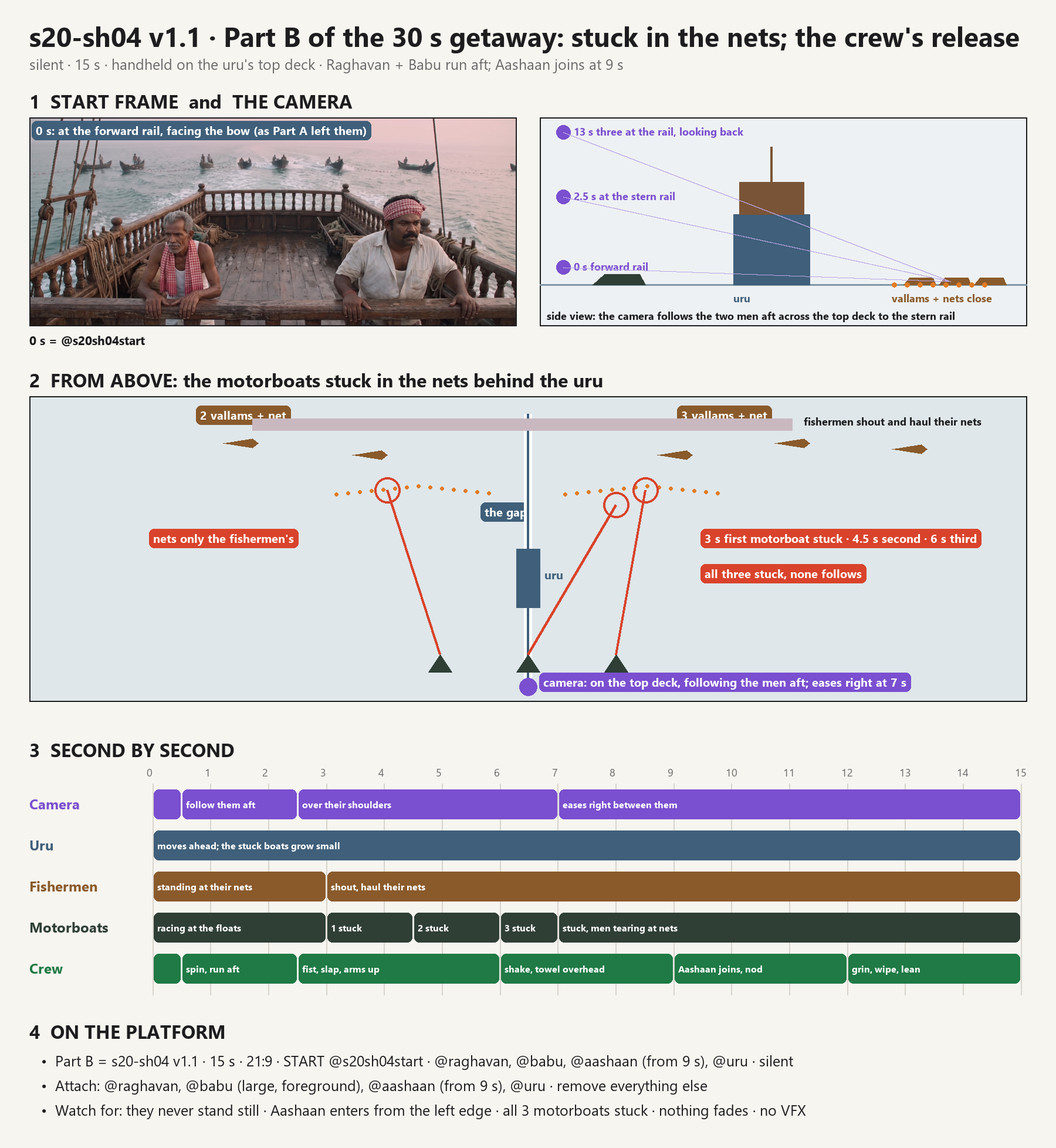
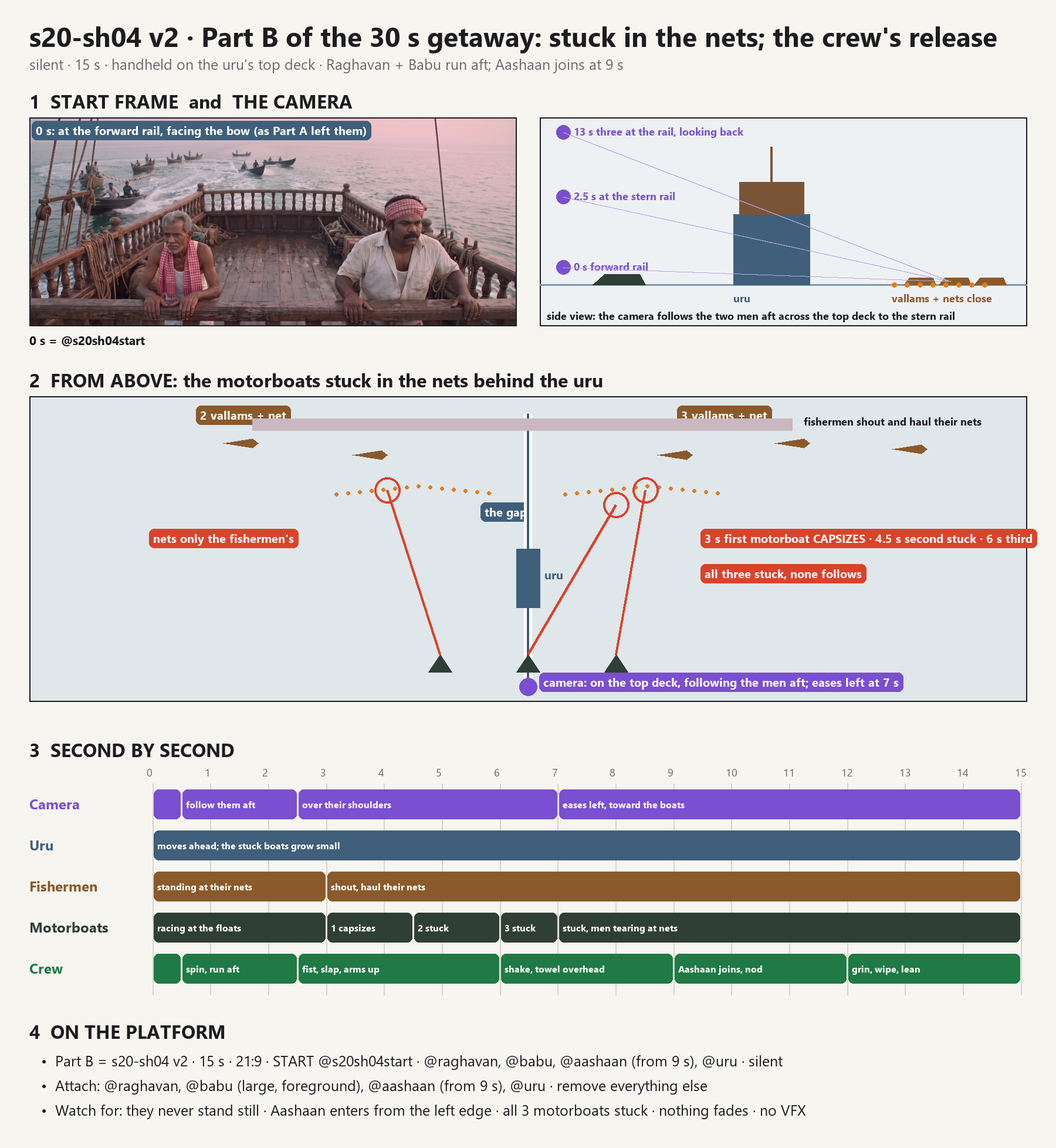
Ranjith: shot: s20-sh04 v2 (vallams and motorboats on the left as Part A; nearest motorboat capsizes, a man goes under; Aashaan's eyes on the boats)

diff --git a/tools/shotsheets/s20-sh04.py b/tools/shotsheets/s20-sh04.py
@@ -10,7 +10,7 @@ def tag(xy, text, col, f=None):
     f = f or F(20, True); x, y = xy; tw = d.textlength(text, font=f)
     d.rounded_rectangle([x - 6, y - 4, x + tw + 8, y + 28], 8, fill=col); d.text((x + 1, y - 2), text, font=f, fill="white")
 
-d.text((50, 30), "s20-sh04 v1.1 · Part B of the 30 s getaway: stuck in the nets; the crew's release", font=F(46, True), fill=INK)
+d.text((50, 30), "s20-sh04 v2 · Part B of the 30 s getaway: stuck in the nets; the crew's release", font=F(46, True), fill=INK)
 d.text((50, 92), "silent · 15 s · handheld on the uru's top deck · Raghavan + Babu run aft; Aashaan joins at 9 s", font=F(25), fill=GREY)
 
 # 1 start frame + side view of the rise-over reveal
@@ -55,23 +55,23 @@ d.line([(cx, my + mh - 30), (cx, my + 30)], fill="#ffffff", width=14); d.line([(
 d.rectangle([cx - 20, my + 260, cx + 20, my + 360], fill=URU); d.text((cx + 28, my + 290), "uru", font=F(20, True), fill=URU)
 # three motorboats abreast and where they end
 for bx, ex, ey, lab, t_ in [(cx - 150, cx - 240, my + 160, "nets only the fishermen's", (cx - 640, my + 230)),
-                            (cx + 150, cx + 200, my + 160, "3 s first motorboat stuck · 4.5 s second · 6 s third", (cx + 300, my + 230)),
+                            (cx + 150, cx + 200, my + 160, "3 s first motorboat CAPSIZES · 4.5 s second stuck · 6 s third", (cx + 300, my + 230)),
                             (cx, cx + 150, my + 185, "all three stuck, none follows", (cx + 300, my + 290))]:
     d.polygon([(bx - 20, my + 470), (bx, my + 440), (bx + 20, my + 470)], fill=MOT)
     d.line([(bx, my + 440), (ex, ey)], fill=JOIN, width=4); d.ellipse([ex - 22, ey - 22, ex + 22, ey + 22], outline=JOIN, width=4)
     tag(t_, lab, JOIN)
 d.rectangle([mx + 380, my + 38, mx + 1300, my + 58], fill=HAZE)
 d.text((mx + 1320, my + 30), "fishermen shout and haul their nets", font=F(18, True), fill=INK)
-d.ellipse([cx - 15, my + mh - 40, cx + 15, my + mh - 10], fill=CAM); tag((cx + 25, my + mh - 45), "camera: on the top deck, following the men aft; eases right at 7 s", CAM)
+d.ellipse([cx - 15, my + mh - 40, cx + 15, my + mh - 10], fill=CAM); tag((cx + 25, my + mh - 45), "camera: on the top deck, following the men aft; eases left at 7 s", CAM)
 
 # 3 timeline
 y2 = my + mh + 60
 d.text((50, y2), "3  SECOND BY SECOND", font=F(32, True), fill=INK)
 tx, tw_ = 260, 1480; ty = y2 + 80; S = 15
-rows = [("Camera", CAM, [(0, 0.5, ""), (0.5, 2.5, "follow them aft"), (2.5, 7, "over their shoulders"), (7, 15, "eases right between them")]),
+rows = [("Camera", CAM, [(0, 0.5, ""), (0.5, 2.5, "follow them aft"), (2.5, 7, "over their shoulders"), (7, 15, "eases left, toward the boats")]),
         ("Uru", URU, [(0, 15, "moves ahead; the stuck boats grow small")]),
         ("Fishermen", VAL, [(0, 3, "standing at their nets"), (3, 15, "shout, haul their nets")]),
-        ("Motorboats", MOT, [(0, 3, "racing at the floats"), (3, 4.5, "1 stuck"), (4.5, 6, "2 stuck"), (6, 7, "3 stuck"), (7, 15, "stuck, men tearing at nets")]),
+        ("Motorboats", MOT, [(0, 3, "racing at the floats"), (3, 4.5, "1 capsizes"), (4.5, 6, "2 stuck"), (6, 7, "3 stuck"), (7, 15, "stuck, men tearing at nets")]),
         ("Crew", "#1f7a45", [(0, 0.5, ""), (0.5, 2.5, "spin, run aft"), (2.5, 6, "fist, slap, arms up"), (6, 9, "shake, towel overhead"), (9, 12, "Aashaan joins, nod"), (12, 15, "grin, wipe, lean")])]
 xj = -1000
 for sec in range(0, 16):
@@ -87,7 +87,7 @@ for i, (lab, col, segs) in enumerate(rows):
 # 4 platform
 y3 = ty + 70 * len(rows) + 50
 d.text((50, y3), "4  ON THE PLATFORM", font=F(32, True), fill=INK)
-lines = ["Part B = s20-sh04 v1.1 · 15 s · 21:9 · START @s20sh04start · @raghavan, @babu, @aashaan (from 9 s), @uru · silent",
+lines = ["Part B = s20-sh04 v2 · 15 s · 21:9 · START @s20sh04start · @raghavan, @babu, @aashaan (from 9 s), @uru · silent",
          "Attach: @raghavan, @babu (large, foreground), @aashaan (from 9 s), @uru · remove everything else",
          "Watch for: they never stand still · Aashaan enters from the left edge · all 3 motorboats stuck · nothing fades · no VFX"]
 for i, t in enumerate(lines): d.text((70, y3 + 55 + i * 42), "•  " + t, font=F(25), fill=INK)

diff --git a/scenes/showreel/s20-sh04.md b/scenes/showreel/s20-sh04.md
@@ -1,12 +1,13 @@
-# s20-sh04 · SB026 (Ref 20) — the getaway, PART B of the 30 s run: the motorboats stuck in the nets, the crew's release (silent) · 15 s · v1.1
+# s20-sh04 · SB026 (Ref 20) — the getaway, PART B of the 30 s run: the motorboats stuck in the nets, the crew's release (silent) · 15 s · v2
 Status: **ready (Ranjith, 2026-11-23)** · silent · start image `@s20sh04start` (on the uru's top deck: Raghavan and Babu at the forward rail facing the camera, the motorboats at the nets behind)
 Created by: Ranjith
+v2 (Ranjith, 2026-11-23): new start frame `@s20sh04start` that keeps Part A's geometry (L178): the wake curves from the turn and the line of vallams angles away to the left (Ranjith: "the vallams and all should be left of uru"), the motorboats racing in among them close behind; the nearest motorboat capsizes in the net and a man goes under trying to get free, coming up clinging to the floats (Ranjith: "the motor boats should flip ... the guy should go down while trying to escape from the nets"); Aashaan's eyes locked on the motorboats. v1.1 kept in `retired/s20-sh04-v1.md`.
 v1.1 (Ranjith, 2026-11-23: "can we have ashan also there as he came out of wheelhouse to front"): Aashaan, who went to the bow in s17-sh03, climbs up onto the top deck at 9 s from the bow end, entering from the left edge, joins the two at the stern rail and nods; @aashaan attached.
 Why: Part A (s20-sh03 v3) ended with the uru clear of the nets and the motorboats still racing past; Raghavan and Babu stood like statues (L177). Ranjith: "can the camera angle come from opposite" and "if u look at previous one raghavan and babu are facing bow ryt" → "ok": Part B starts on the top deck with the two at the forward rail facing the bow, as Part A left them; they spin and run aft to the stern rail as the motorboats stick in the nets one by one, then burst out in relief.
 Camera: handheld on the top deck, 28mm, following the two men aft, then easing right between them; the stuck motorboats in the middle of the frame beyond the rail, growing small as the uru goes on.
 Motive (Ranjith: "Protect their nets"): the fishermen guard their nets; they do not help the uru.
 Scene emotion: none (silent shot).
-Lessons applied: L177 (Raghavan and Babu: big timed actions in the key block, large in frame), L174, L173, L172, L168, L83, checklist 190–203 (195 no VFX; 201 nothing fades).
+Lessons applied: L178 (geometry across the cut; eyelines locked; action close), L177 (Raghavan and Babu: big timed actions in the key block, large in frame), L174, L173, L172, L168, L83, checklist 190–203 (195 no VFX; 201 nothing fades).
 Attach: `@s20sh04start` (start image), `@raghavan` (full), `@babu` (full), `@aashaan` (full, from 9 s), `@uru` (full). No end image. Remove every other attachment (L88). **15 s.** 21:9.
 Platform: upload `approved/sb026-clear/s20-sh04-start.png` as `@s20sh04start`.
 Attach folder: `scenes/showreel/attach/s20-sh04/`
@@ -16,26 +17,26 @@ Edit note (music): the score hits on the first snag at 3 s and resolves into the
 ## Prompt
 ```text
 SCENE CONTEXT
-Dawn, 1998, open sea in Sri Lankan waters, on the small open top deck of our uru. The uru has just cut hard round the end of the fishermen's nets. Raghavan and Babu are at the forward rail of the top deck, where they rode out the turn, facing the bow. They hear the motorboats behind, spin round and run aft across the top deck to the stern rail, and get there just as the three motorboats, too close and too fast to follow the turn, run into the fishermen's float lines and are stuck there one after another, while the fishermen stand and shout and haul at their nets to save them. Raghavan and Babu burst out in relief, and Aashaan, who went forward to the bow to watch ahead, climbs up onto the top deck and joins them. The uru moves ahead and the stuck motorboats grow small behind it. One continuous shot, 15 seconds, starting exactly on the start frame. No one speaks a line.
+Dawn, 1998, open sea in Sri Lankan waters, on the small open top deck of our uru. The uru has just cut hard round the end of the fishermen's line of nets: its wake curves away behind it from the turn, and the line of five vallams with their float lines angles away to the left, the nearest vallam just off the left of the uru's stern. Raghavan and Babu are at the forward rail of the top deck, where they rode out the turn, facing the bow. They hear the motorboats behind, spin round and run aft across the top deck to the stern rail, and get there just as the three motorboats, too close and too fast to follow the turn, run into the fishermen's float lines among the vallams and are wrecked and stuck there one after another, the nearest one tangling, swinging sideways and capsizing, a man thrown into the sea, while the fishermen stand and shout and haul at their nets to save them. Raghavan and Babu burst out in relief, and Aashaan, who went forward to the bow to watch ahead, climbs up onto the top deck and joins them. The uru moves ahead and the stuck motorboats grow small behind it. One continuous shot, 15 seconds, starting exactly on the start frame. No one speaks a line.
 
 MEMORY
 Place: the open sea at dawn, calm grey-pink with a low swell; the uru's wide white wake running back from the stern; thin haze on the far sea.
 The top deck: a small open deck of weathered planks about 5 m long, edged all round by a carved turned-post wooden balustrade; coiled ropes and a few sacks along its sides; the mast stays and rigging at the left.
 Raghavan and Babu: at the forward rail of the top deck in the foreground, facing the bow and the camera, from the waist up: Raghavan on the left, Babu on the right.
-Behind the uru, beyond the stern rail: five small wooden fishing vallams, plain open canoes with no frames or poles, fishermen standing in them, their nets lying on the water as lines of small dull white and orange floats strung across the wake, each net tied only to its own vallam; and three open dark motorboats, two men each, racing up the wake at the float lines.
+Behind the uru, beyond the stern rail: the uru's white wake curving away from its hard turn; five small wooden fishing vallams, plain open canoes with no frames or poles, fishermen standing in them, in a line angling away to the left of the frame, their nets lying on the water as lines of small dull white and orange floats strung between them, each net tied only to its own vallam; and three open dark motorboats, two men each, racing in among the vallams on the left, close, about 20 m behind the uru, the nearest one large at the left of the frame; the right side of the sea behind the stern is open water.
 Aashaan: not in the start frame; he is at the uru's bow, behind the camera, and comes up onto the top deck at 9.0s, entering from the left edge of the frame close to the camera.
 Light: hazy pink-grey dawn, soft daylight about 5800K, soft light on the men's faces.
-FIRST FRAME (0.0s): exactly the start frame: at the forward end of the top deck looking aft, Raghavan and Babu at the forward rail facing the camera, gripping it, tense; behind them the empty top deck and the stern rail; beyond it the wake, the vallams with their float lines, and the three motorboats reaching the floats.
+FIRST FRAME (0.0s): exactly the start frame: at the forward end of the top deck looking aft, Raghavan and Babu at the forward rail facing the camera, gripping it, tense; behind them the empty top deck and the stern rail; beyond it the curving wake, the line of vallams angling away to the left with their float lines, the three motorboats racing in among them on the left, close; open water on the right.
 
 ACTIVE REFERENCES
-@s20sh04start (start frame, 0.0s): the exact first frame: Raghavan and Babu at the forward rail of the uru's top deck facing the camera, the top deck and stern rail behind them, the wake, the five vallams with their float lines, and the three motorboats racing at the floats, the hazy pink-grey dawn. Everything starts exactly as in this image.
+@s20sh04start (start frame, 0.0s): the exact first frame: Raghavan and Babu at the forward rail of the uru's top deck facing the camera, the top deck and stern rail behind them, the curving wake, the five vallams angling away to the left with their float lines, the three motorboats racing in among them on the left, the hazy pink-grey dawn. Everything starts exactly as in this image.
 @raghavan (full, 0.0s–15.0s): Raghavan, the left of the two: wiry, about 60, grey hair, white sleeveless vest, the red-and-white checked towel round his neck. 100% matches the reference.
 @babu (full, 0.0s–15.0s): Babu, the right of the two: heavy-set, about 40, the red-and-white checked towel tied on his head, off-white half-sleeve shirt. 100% matches the reference.
 @aashaan (full, 9.0s–15.0s): Aashaan, the old skipper, entering from the left edge at 9.0s: about 60, stocky, sun-darkened weathered skin, grey hair combed straight back, a thick grey moustache; a cream half-sleeve cotton shirt worn open over a white sleeveless vest, reading spectacles hooked into the vest, a white cotton towel folded over his LEFT shoulder, a white mundu. 100% matches the reference.
 @uru (full, 0.0s–15.0s): our uru, of which only the top deck, its carved balustrade, its rigging and its wake are in frame. 100% matches the reference.
 
 THE RUN AFT AND THE MOTORBOATS STUCK (most important)
-Raghavan and Babu keep moving; they move big, every second. At 0.5s, hearing the engines behind, they spin round together and run aft across the top deck, Raghavan in front, Babu heavy behind him, the camera following them; at 2.5s they reach the stern rail and grab it, leaning far out. Behind the uru, in plain sight beyond them: at 3.0s the nearest motorboat runs over a float line, the net wraps round its propeller with a burst of white water, its engine dies and it slews sideways and stops, one of its men pitching forward; at 4.5s the second motorboat swerves to miss it, catches another float line and jerks to a stop tangled in the floats; at 6.0s the third throttles back hard, its bow dropping, and stops short against the floats; from 7.0s all three sit stuck among the floats, their men standing, waving their arms and tearing at the net round their own propellers, the fishermen standing in their vallams, shouting and hauling their nets. At the rail: at 3.0s Raghavan punches the air with his right fist and slaps the rail; at 4.5s Babu throws both arms up and laughs, head back; at 6.0s Babu grabs Raghavan by the shoulders and shakes him, both laughing; at 8.0s Babu pulls the towel off his head and whirls it overhead at the stuck motorboats; at 9.0s Aashaan climbs up onto the top deck from the bow end, entering from the left edge of the frame close to the camera, and walks aft to the stern rail; at 10.5s he reaches them, Raghavan grabs his arm and points back at the stuck motorboats, and Aashaan looks back at them and gives one slow, satisfied nod, a small smile under his moustache; at 12.0s Raghavan turns half toward the camera, wiping his face with the towel from his neck, breathing out, grinning; at 13.0s all three lean on the stern rail, laughing, looking back at the motorboats growing small.
+Raghavan and Babu keep moving; they move big, every second. At 0.5s, hearing the engines behind, they spin round together and run aft across the top deck, Raghavan in front, Babu heavy behind him, the camera following them; at 2.5s they reach the stern rail and grab it, leaning far out. Behind the uru, in plain sight beyond them: at 3.0s the nearest motorboat, on the left, runs over a float line at full speed: the net wraps round its propeller with a burst of white water, the engine dies, the boat slews hard sideways, its low side digs into the water, and it rolls right over and capsizes, its dark hull turning up, both its men thrown into the sea; one of them, tangled in the net, kicks and struggles to get free, goes under once, and comes up gasping, clinging to the line of floats; the other grabs the upturned hull; at 4.5s the second motorboat swerves to miss it, catches another float line and jerks to a stop tangled in the floats; at 6.0s the third throttles back hard, its bow dropping, and stops short against the floats; from 7.0s the capsized boat floats upside down with its two men clinging to it and to the floats, the other two sit stuck among the floats, their men standing, waving their arms and tearing at the net round their own propellers; the fishermen stand in their vallams, shouting and hauling their nets; none of the motorboats can follow. At the rail: at 3.0s Raghavan punches the air with his right fist and slaps the rail; at 4.5s Babu throws both arms up and laughs, head back; at 6.0s Babu grabs Raghavan by the shoulders and shakes him, both laughing; at 8.0s Babu pulls the towel off his head and whirls it overhead at the stuck motorboats; at 9.0s Aashaan climbs up onto the top deck from the bow end, entering from the left edge of the frame close to the camera, and walks aft to the stern rail; at 10.5s he reaches them, Raghavan grabs his arm and points back at the stuck motorboats, and Aashaan looks back at the motorboats, his eyes on them the whole time, and gives one slow, satisfied nod, a small smile under his moustache; at 12.0s Raghavan turns half toward the camera, wiping his face with the towel from his neck, breathing out, grinning; at 13.0s all three lean on the stern rail, laughing, looking back at the motorboats growing small.
 
 FORMAT MODE
 One continuous shot, 15 seconds, real time, no cut, no slow motion, 21:9 cinematic. Runs the full 15 seconds.
@@ -45,11 +46,11 @@ Handheld on the uru's top deck, at shoulder height, a 28mm lens, with the gentle
 0.0s to 0.5s — From the start frame: Raghavan and Babu at the forward rail, facing the camera, breathing hard after the turn.
 0.5s to 2.5s — They spin round and run aft across the top deck; the camera follows them aft, about 1.5 m behind them, over the planks, until they reach the stern rail and grab it; the wake, the vallams and the motorboats ahead of them beyond the rail.
 2.5s to 7.0s — Behind them over their shoulders: the three motorboats run into the floats and stop at 3.0s, 4.5s and 6.0s; Raghavan and Babu react as written, big and fast.
-7.0s to 12.0s — The camera eases to the right between the two men, keeping both large in the foreground and the stuck motorboats in the middle of the frame beyond the rail; the fishermen shout and haul their nets; Babu whirls his towel overhead; at 9.0s Aashaan enters from the left edge, close to the camera, and walks aft to the rail; Raghavan grabs his arm and points back; Aashaan nods slowly.
+7.0s to 12.0s — The camera eases to the left between the two men, toward the stuck motorboats, keeping both men large in the foreground and the motorboats in the middle of the frame beyond the rail; the fishermen shout and haul their nets; Babu whirls his towel overhead; at 9.0s Aashaan enters from the left edge, close to the camera, and walks aft to the rail; Raghavan grabs his arm and points back; Aashaan nods slowly.
 12.0s to 15.0s — The uru keeps going: the stuck motorboats and the vallams grow smaller behind the widening wake, solid and visible; Raghavan turns half toward the camera wiping his face; all three lean on the rail, looking back.
 
 EYELINES
-Raghavan and Babu: at the start just past the camera, then back at the motorboats, then at each other; at 12.0s Raghavan looks just past the lens, never straight into it. Aashaan looks back at the motorboats, then ahead past the bow. The men in the motorboats look at their fouled propellers and at the uru getting away; the fishermen look at the motorboats.
+Raghavan and Babu: at the start just past the camera, then back at the motorboats, then at each other; at 12.0s Raghavan looks just past the lens, never straight into it. Aashaan's eyes are on the motorboats from the moment he enters until the end, mostly with his back or his three-quarter profile to the camera; he never looks at the camera or up at the sky. The men in the motorboats look at their fouled propellers and at the uru getting away; the fishermen look at the motorboats.
 
 ACTING & MICRO-EXPRESSION
 Raghavan: tense, then the turn of the head at the engines, the quick run, then the tension breaking: brows up, mouth open in a silent shout, a grin, a long breath out as he wipes his face. Babu: heavy, breathless running, then a laugh that shakes his whole body, eyes squeezed, the towel whirled overhead. Aashaan: calm, the skipper's quiet satisfaction, one slow nod, the corner of his mouth lifting, his eyes already going forward again. Real relief, never stiff; they keep moving all the time.
@@ -67,17 +68,17 @@ LIGHTING
 Soft hazy pink-grey dawn, about 5800K, soft light on the two men's faces at the start and as they turn, the wake and spray bright but never blown out; the floats dull painted white and orange, not glowing; no golden light.
 
 AUDIO
-Sound effects only — natural on-location sound, the soundtrack carries no music. No music at all: no score, no background music, no song, no humming, and no cinematic sound design: no riser, no whoosh, no swell. The uru's deep engine and the rush of its wake; bare feet pounding the deck planks as the two men run; behind, the three outboards choking and dying one after another (3.0s, 4.5s, 6.0s) with thrashes of water; the fishermen's distant shouts, no words heard; Raghavan and Babu's laughter and breathing, no words; the snap of the towel in the wind.
+Sound effects only — natural on-location sound, the soundtrack carries no music. No music at all: no score, no background music, no song, no humming, and no cinematic sound design: no riser, no whoosh, no swell. The uru's deep engine and the rush of its wake; bare feet pounding the deck planks as the two men run; behind, at 3.0s an outboard choking off and the heavy slap and splash of a boat rolling over, then the other two outboards dying (4.5s, 6.0s) with thrashes of water; a man coughing and gasping in the water; the fishermen's distant shouts, no words heard; Raghavan and Babu's laughter and breathing, no words; the snap of the towel in the wind.
 No one speaks a line: no dialogue, no words heard.
 
 STYLE
 Photoreal 1998 Kerala period feature film, Every frame looks like real footage filmed on a real wooden boat at sea, never like VFX or CGI: real water with real foam, spray and reflections, real wood, real skin and cloth, every boat and person sitting in the same light and haze as the rest of the frame, with soft natural edges and real contact shadows; no composited or pasted-in look, no glowing outlines, no 3D-render or game look, no over-clean water, no digital smoke; the haze is real sea mist. 24fps, fine 35mm grain, gentle halation on the spray, visible skin texture and real pores, real wood grain, no smoothing. Shot on a Sony Venice 2 full-frame digital cinema camera: very wide dynamic range that holds the brightest light and the deepest shade in one frame; clean, low-noise shadows; soft, gradual highlight roll-off; accurate, natural colour with rich, true skin tones; gentle filmic contrast; fine, organic texture; no over-sharpening, no glossy or video look. Hazy pink-grey dawn.
 
 CONSTRAINTS
-The shot starts exactly on the start frame. Raghavan and Babu keep moving; they move big, all the time. Each net is tied only to its own vallam and handled only by the fishermen; the motorboat men only tear at the net round their own propellers; nothing trails from the uru. Nothing fades in or out: every boat, person and object stays solid and fully visible until it leaves through a frame edge; the haze never covers the motorboats or the vallams. No new boat appears. Exactly three motorboats (two men each), all three ending stuck in the nets; none follows the uru. Exactly five vallams. Exactly two men on the top deck until 9.0s, then exactly three with Aashaan; Aashaan enters only from the left edge of the frame, close to the camera. No weapons, no fighting, no fire, no Navy, no land. No English words, no subtitles, no lettering. No cut, no zoom.
+The shot starts exactly on the start frame. Raghavan and Babu keep moving; they move big, all the time. Each net is tied only to its own vallam and handled only by the fishermen; the motorboat men only tear at the net round their own propellers; nothing trails from the uru. Nothing fades in or out: every boat, person and object stays solid and fully visible until it leaves through a frame edge; the haze never covers the motorboats or the vallams. No new boat appears. Exactly three motorboats (two men each): one capsized, two stuck in the nets; none follows the uru. The men in the water stay afloat, clinging to the floats and the hull. Exactly five vallams. Exactly two men on the top deck until 9.0s, then exactly three with Aashaan; Aashaan enters only from the left edge of the frame, close to the camera, and looks only at the motorboats, never at the camera or the sky. The line of vallams and the motorboats stay on the left as in the start frame, open water on the right; the wake keeps its curve; nothing lies dead astern in the middle except the wake. No weapons, no fighting, no fire, no Navy, no land. No English words, no subtitles, no lettering. No cut, no zoom.
 
 POSITIVE LOCKS
-Starts on the start frame with Raghavan and Babu at the forward rail facing the camera; exactly five vallams, exactly three motorboats (two men each); exactly two men on the top deck, then three when Aashaan joins at 9.0s. At 0.5s they spin and run aft, reaching the stern rail at 2.5s. The motorboats run into the nets and stop at 3.0s, 4.5s and 6.0s and stay stuck; Raghavan and Babu react big and keep moving every second: fist, slap, arms up, laugh, shoulder shake, towel whirled overhead, the grin and the wipe; at 9.0s Aashaan comes up from the bow end and joins them with one slow nod; the uru moves ahead and the stuck motorboats grow small behind it, solid to the end. Runs the full 15 seconds.
+Starts on the start frame with Raghavan and Babu at the forward rail facing the camera; exactly five vallams, exactly three motorboats (two men each); exactly two men on the top deck, then three when Aashaan joins at 9.0s. At 0.5s they spin and run aft, reaching the stern rail at 2.5s. The nearest motorboat capsizes in the net at 3.0s, a man thrown in, going under once and coming up clinging to the floats; the second sticks at 4.5s and the third at 6.0s; Raghavan and Babu react big and keep moving every second: fist, slap, arms up, laugh, shoulder shake, towel whirled overhead, the grin and the wipe; at 9.0s Aashaan comes up from the bow end and joins them with one slow nod; the uru moves ahead and the stuck motorboats grow small behind it, solid to the end. Runs the full 15 seconds.
 
 INTENT: The chase is over: the pursuers are caught in the fishermen's nets, and on the uru the held breath breaks into laughter.
 ```
@@ -90,7 +91,7 @@ INTENT: The chase is over: the pursuers are caught in the fishermen's nets, and 
 - Attach: `@s20sh04start` (start), `@raghavan` (full), `@babu` (full), `@aashaan` (full), `@uru` (full)
 
 ## QC
-PROMPT QA — s20-sh04 v1.1 (Part B) · Score 100/100 · Aashaan enters from the left edge at 9 s (L170), counts in the locks; · Ready (qc_panel.py 100). Continuity with Part A: the two start at the forward rail facing the bow (Ranjith's note); the run aft gives them movement; big timed reactions in the key block (L177); motorboats stuck at 3, 4.5, 6 s, none follows; nets only the fishermen's; nothing fades (201); no-VFX line (195). Image QA of @s20sh04start: Raghavan (grey hair, white vest, red-and-white towel round his neck) and Babu (heavy-set, towel on his head, off-white shirt) match their sheets; carved turned-post balustrade and plank top deck match the uru; five vallams with float lines across the wake; three motorboats (the third copied from the second, mirrored); reads as real footage.
+PROMPT QA — s20-sh04 v2 (Part B) · Score 100/100 · Ready (qc_panel.py 100). L178: the start frame keeps Part A's geometry (curving wake, vallams and motorboats on the left), the motorboats close; the nearest capsizes and a man goes under and comes up (Ranjith's ask), no one hurt badly; Aashaan's eyes locked on the motorboats; L177 big timed actions; nothing fades (201); no-VFX line (195). Image QA of @s20sh04start: Raghavan and Babu match their sheets at the forward carved rail; five vallams with float lines angling away to the left; three motorboats among them on the left, the nearest large and close; open water on the right; reads as real footage.
 
 ## Generation results
 - v1.1 [partial] (Ranjith, 2026-11-23): Raghavan and Babu ran aft and reacted (L177 worked) and Aashaan came in from the left; but the wake ran straight back through the middle of the vallams though Part A cut round the end of the line; Aashaan looked at the sky and the camera, not the motorboats; the motorboats were too small and far for anything to read; Ranjith wants the motorboats to flip and a man to go down in the water trying to get free of the net (L178). Frames: `evidence/s20-sh04-v1/`.

diff --git a/scenes/showreel/retired/s20-sh04-v1.md b/scenes/showreel/retired/s20-sh04-v1.md
@@ -1,0 +1,96 @@
+# s20-sh04 · SB026 (Ref 20) — the getaway, PART B of the 30 s run: the motorboats stuck in the nets, the crew's release (silent) · 15 s · v1.1
+Status: **ready (Ranjith, 2026-11-23)** · silent · start image `@s20sh04start` (on the uru's top deck: Raghavan and Babu at the forward rail facing the camera, the motorboats at the nets behind)
+Created by: Ranjith
+v1.1 (Ranjith, 2026-11-23: "can we have ashan also there as he came out of wheelhouse to front"): Aashaan, who went to the bow in s17-sh03, climbs up onto the top deck at 9 s from the bow end, entering from the left edge, joins the two at the stern rail and nods; @aashaan attached.
+Why: Part A (s20-sh03 v3) ended with the uru clear of the nets and the motorboats still racing past; Raghavan and Babu stood like statues (L177). Ranjith: "can the camera angle come from opposite" and "if u look at previous one raghavan and babu are facing bow ryt" → "ok": Part B starts on the top deck with the two at the forward rail facing the bow, as Part A left them; they spin and run aft to the stern rail as the motorboats stick in the nets one by one, then burst out in relief.
+Camera: handheld on the top deck, 28mm, following the two men aft, then easing right between them; the stuck motorboats in the middle of the frame beyond the rail, growing small as the uru goes on.
+Motive (Ranjith: "Protect their nets"): the fishermen guard their nets; they do not help the uru.
+Scene emotion: none (silent shot).
+Lessons applied: L177 (Raghavan and Babu: big timed actions in the key block, large in frame), L174, L173, L172, L168, L83, checklist 190–203 (195 no VFX; 201 nothing fades).
+Attach: `@s20sh04start` (start image), `@raghavan` (full), `@babu` (full), `@aashaan` (full, from 9 s), `@uru` (full). No end image. Remove every other attachment (L88). **15 s.** 21:9.
+Platform: upload `approved/sb026-clear/s20-sh04-start.png` as `@s20sh04start`.
+Attach folder: `scenes/showreel/attach/s20-sh04/`
+Next: the SB026 dialogue s20-sh05 to s20-sh08 (Antony "ആശാനേ."; Aashaan "ഞാൻ നോക്കിയ ആളെ ഞാൻ കണ്ടെത്തി, കേട്ടോ ആന്റണീ."; Antony "ആണോ?"; Aashaan "നീ പോയി വിശ്രമിക്ക്.").
+Edit note (music): the score hits on the first snag at 3 s and resolves into the laughter.
+
+## Prompt
+```text
+SCENE CONTEXT
+Dawn, 1998, open sea in Sri Lankan waters, on the small open top deck of our uru. The uru has just cut hard round the end of the fishermen's nets. Raghavan and Babu are at the forward rail of the top deck, where they rode out the turn, facing the bow. They hear the motorboats behind, spin round and run aft across the top deck to the stern rail, and get there just as the three motorboats, too close and too fast to follow the turn, run into the fishermen's float lines and are stuck there one after another, while the fishermen stand and shout and haul at their nets to save them. Raghavan and Babu burst out in relief, and Aashaan, who went forward to the bow to watch ahead, climbs up onto the top deck and joins them. The uru moves ahead and the stuck motorboats grow small behind it. One continuous shot, 15 seconds, starting exactly on the start frame. No one speaks a line.
+
+MEMORY
+Place: the open sea at dawn, calm grey-pink with a low swell; the uru's wide white wake running back from the stern; thin haze on the far sea.
+The top deck: a small open deck of weathered planks about 5 m long, edged all round by a carved turned-post wooden balustrade; coiled ropes and a few sacks along its sides; the mast stays and rigging at the left.
+Raghavan and Babu: at the forward rail of the top deck in the foreground, facing the bow and the camera, from the waist up: Raghavan on the left, Babu on the right.
+Behind the uru, beyond the stern rail: five small wooden fishing vallams, plain open canoes with no frames or poles, fishermen standing in them, their nets lying on the water as lines of small dull white and orange floats strung across the wake, each net tied only to its own vallam; and three open dark motorboats, two men each, racing up the wake at the float lines.
+Aashaan: not in the start frame; he is at the uru's bow, behind the camera, and comes up onto the top deck at 9.0s, entering from the left edge of the frame close to the camera.
+Light: hazy pink-grey dawn, soft daylight about 5800K, soft light on the men's faces.
+FIRST FRAME (0.0s): exactly the start frame: at the forward end of the top deck looking aft, Raghavan and Babu at the forward rail facing the camera, gripping it, tense; behind them the empty top deck and the stern rail; beyond it the wake, the vallams with their float lines, and the three motorboats reaching the floats.
+
+ACTIVE REFERENCES
+@s20sh04start (start frame, 0.0s): the exact first frame: Raghavan and Babu at the forward rail of the uru's top deck facing the camera, the top deck and stern rail behind them, the wake, the five vallams with their float lines, and the three motorboats racing at the floats, the hazy pink-grey dawn. Everything starts exactly as in this image.
+@raghavan (full, 0.0s–15.0s): Raghavan, the left of the two: wiry, about 60, grey hair, white sleeveless vest, the red-and-white checked towel round his neck. 100% matches the reference.
+@babu (full, 0.0s–15.0s): Babu, the right of the two: heavy-set, about 40, the red-and-white checked towel tied on his head, off-white half-sleeve shirt. 100% matches the reference.
+@aashaan (full, 9.0s–15.0s): Aashaan, the old skipper, entering from the left edge at 9.0s: about 60, stocky, sun-darkened weathered skin, grey hair combed straight back, a thick grey moustache; a cream half-sleeve cotton shirt worn open over a white sleeveless vest, reading spectacles hooked into the vest, a white cotton towel folded over his LEFT shoulder, a white mundu. 100% matches the reference.
+@uru (full, 0.0s–15.0s): our uru, of which only the top deck, its carved balustrade, its rigging and its wake are in frame. 100% matches the reference.
+
+THE RUN AFT AND THE MOTORBOATS STUCK (most important)
+Raghavan and Babu keep moving; they move big, every second. At 0.5s, hearing the engines behind, they spin round together and run aft across the top deck, Raghavan in front, Babu heavy behind him, the camera following them; at 2.5s they reach the stern rail and grab it, leaning far out. Behind the uru, in plain sight beyond them: at 3.0s the nearest motorboat runs over a float line, the net wraps round its propeller with a burst of white water, its engine dies and it slews sideways and stops, one of its men pitching forward; at 4.5s the second motorboat swerves to miss it, catches another float line and jerks to a stop tangled in the floats; at 6.0s the third throttles back hard, its bow dropping, and stops short against the floats; from 7.0s all three sit stuck among the floats, their men standing, waving their arms and tearing at the net round their own propellers, the fishermen standing in their vallams, shouting and hauling their nets. At the rail: at 3.0s Raghavan punches the air with his right fist and slaps the rail; at 4.5s Babu throws both arms up and laughs, head back; at 6.0s Babu grabs Raghavan by the shoulders and shakes him, both laughing; at 8.0s Babu pulls the towel off his head and whirls it overhead at the stuck motorboats; at 9.0s Aashaan climbs up onto the top deck from the bow end, entering from the left edge of the frame close to the camera, and walks aft to the stern rail; at 10.5s he reaches them, Raghavan grabs his arm and points back at the stuck motorboats, and Aashaan looks back at them and gives one slow, satisfied nod, a small smile under his moustache; at 12.0s Raghavan turns half toward the camera, wiping his face with the towel from his neck, breathing out, grinning; at 13.0s all three lean on the stern rail, laughing, looking back at the motorboats growing small.
+
+FORMAT MODE
+One continuous shot, 15 seconds, real time, no cut, no slow motion, 21:9 cinematic. Runs the full 15 seconds.
+
+CAMERA AND ACTION
+Handheld on the uru's top deck, at shoulder height, a 28mm lens, with the gentle roll of the boat; it moves with the uru, so the motorboats and vallams fall behind.
+0.0s to 0.5s — From the start frame: Raghavan and Babu at the forward rail, facing the camera, breathing hard after the turn.
+0.5s to 2.5s — They spin round and run aft across the top deck; the camera follows them aft, about 1.5 m behind them, over the planks, until they reach the stern rail and grab it; the wake, the vallams and the motorboats ahead of them beyond the rail.
+2.5s to 7.0s — Behind them over their shoulders: the three motorboats run into the floats and stop at 3.0s, 4.5s and 6.0s; Raghavan and Babu react as written, big and fast.
+7.0s to 12.0s — The camera eases to the right between the two men, keeping both large in the foreground and the stuck motorboats in the middle of the frame beyond the rail; the fishermen shout and haul their nets; Babu whirls his towel overhead; at 9.0s Aashaan enters from the left edge, close to the camera, and walks aft to the rail; Raghavan grabs his arm and points back; Aashaan nods slowly.
+12.0s to 15.0s — The uru keeps going: the stuck motorboats and the vallams grow smaller behind the widening wake, solid and visible; Raghavan turns half toward the camera wiping his face; all three lean on the rail, looking back.
+
+EYELINES
+Raghavan and Babu: at the start just past the camera, then back at the motorboats, then at each other; at 12.0s Raghavan looks just past the lens, never straight into it. Aashaan looks back at the motorboats, then ahead past the bow. The men in the motorboats look at their fouled propellers and at the uru getting away; the fishermen look at the motorboats.
+
+ACTING & MICRO-EXPRESSION
+Raghavan: tense, then the turn of the head at the engines, the quick run, then the tension breaking: brows up, mouth open in a silent shout, a grin, a long breath out as he wipes his face. Babu: heavy, breathless running, then a laugh that shakes his whole body, eyes squeezed, the towel whirled overhead. Aashaan: calm, the skipper's quiet satisfaction, one slow nod, the corner of his mouth lifting, his eyes already going forward again. Real relief, never stiff; they keep moving all the time.
+
+CAPTURE IMPERFECTIONS
+A gentle handheld roll with the boat; 1.2s the frame bounces as the camera runs after them; 3.2s the far white water of the first snag catches the light; 6.2s Babu's elbow brushes the edge of the frame; 8.5s the towel whips past close to the lens; 13.0s a slight focus breath to the far motorboats.
+
+REAL-WORLD PHYSICS
+The uru, about 30 tonnes of wood, moves at about 13 km/h, rolling slowly about 3 degrees on the swell, its wake widening behind it; the two men run and sway with the roll, catching the rail. A propeller wrapped in a net stalls the engine at once and the boat slews and stops, the float line bunching round it; a boat stopped hard pitches its men forward. Because the uru keeps going, everything behind it grows smaller. Wind about 15 km/h lifts hair and the towels. Nothing moves by itself; every movement has a cause.
+
+PERFORMANCE
+Real and loose, everybody moving the whole time: the crew's run and release, the pursuers' frustration, the fishermen's anger. No weapons, no fighting, no look into the lens.
+
+LIGHTING
+Soft hazy pink-grey dawn, about 5800K, soft light on the two men's faces at the start and as they turn, the wake and spray bright but never blown out; the floats dull painted white and orange, not glowing; no golden light.
+
+AUDIO
+Sound effects only — natural on-location sound, the soundtrack carries no music. No music at all: no score, no background music, no song, no humming, and no cinematic sound design: no riser, no whoosh, no swell. The uru's deep engine and the rush of its wake; bare feet pounding the deck planks as the two men run; behind, the three outboards choking and dying one after another (3.0s, 4.5s, 6.0s) with thrashes of water; the fishermen's distant shouts, no words heard; Raghavan and Babu's laughter and breathing, no words; the snap of the towel in the wind.
+No one speaks a line: no dialogue, no words heard.
+
+STYLE
+Photoreal 1998 Kerala period feature film, Every frame looks like real footage filmed on a real wooden boat at sea, never like VFX or CGI: real water with real foam, spray and reflections, real wood, real skin and cloth, every boat and person sitting in the same light and haze as the rest of the frame, with soft natural edges and real contact shadows; no composited or pasted-in look, no glowing outlines, no 3D-render or game look, no over-clean water, no digital smoke; the haze is real sea mist. 24fps, fine 35mm grain, gentle halation on the spray, visible skin texture and real pores, real wood grain, no smoothing. Shot on a Sony Venice 2 full-frame digital cinema camera: very wide dynamic range that holds the brightest light and the deepest shade in one frame; clean, low-noise shadows; soft, gradual highlight roll-off; accurate, natural colour with rich, true skin tones; gentle filmic contrast; fine, organic texture; no over-sharpening, no glossy or video look. Hazy pink-grey dawn.
+
+CONSTRAINTS
+The shot starts exactly on the start frame. Raghavan and Babu keep moving; they move big, all the time. Each net is tied only to its own vallam and handled only by the fishermen; the motorboat men only tear at the net round their own propellers; nothing trails from the uru. Nothing fades in or out: every boat, person and object stays solid and fully visible until it leaves through a frame edge; the haze never covers the motorboats or the vallams. No new boat appears. Exactly three motorboats (two men each), all three ending stuck in the nets; none follows the uru. Exactly five vallams. Exactly two men on the top deck until 9.0s, then exactly three with Aashaan; Aashaan enters only from the left edge of the frame, close to the camera. No weapons, no fighting, no fire, no Navy, no land. No English words, no subtitles, no lettering. No cut, no zoom.
+
+POSITIVE LOCKS
+Starts on the start frame with Raghavan and Babu at the forward rail facing the camera; exactly five vallams, exactly three motorboats (two men each); exactly two men on the top deck, then three when Aashaan joins at 9.0s. At 0.5s they spin and run aft, reaching the stern rail at 2.5s. The motorboats run into the nets and stop at 3.0s, 4.5s and 6.0s and stay stuck; Raghavan and Babu react big and keep moving every second: fist, slap, arms up, laugh, shoulder shake, towel whirled overhead, the grin and the wipe; at 9.0s Aashaan comes up from the bow end and joins them with one slow nod; the uru moves ahead and the stuck motorboats grow small behind it, solid to the end. Runs the full 15 seconds.
+
+INTENT: The chase is over: the pursuers are caught in the fishermen's nets, and on the uru the held breath breaks into laughter.
+```
+
+## Settings
+- **Duration: 15 s**
+- Aspect ratio 21:9
+- Start image: `@s20sh04start` (00-START in the attach folder) · no end image
+- No dialogue (silent) · no music
+- Attach: `@s20sh04start` (start), `@raghavan` (full), `@babu` (full), `@aashaan` (full), `@uru` (full)
+
+## QC
+PROMPT QA — s20-sh04 v1.1 (Part B) · Score 100/100 · Aashaan enters from the left edge at 9 s (L170), counts in the locks; · Ready (qc_panel.py 100). Continuity with Part A: the two start at the forward rail facing the bow (Ranjith's note); the run aft gives them movement; big timed reactions in the key block (L177); motorboats stuck at 3, 4.5, 6 s, none follows; nets only the fishermen's; nothing fades (201); no-VFX line (195). Image QA of @s20sh04start: Raghavan (grey hair, white vest, red-and-white towel round his neck) and Babu (heavy-set, towel on his head, off-white shirt) match their sheets; carved turned-post balustrade and plank top deck match the uru; five vallams with float lines across the wake; three motorboats (the third copied from the second, mirrored); reads as real footage.
+
+## Generation results
+- v1.1 [partial] (Ranjith, 2026-11-23): Raghavan and Babu ran aft and reacted (L177 worked) and Aashaan came in from the left; but the wake ran straight back through the middle of the vallams though Part A cut round the end of the line; Aashaan looked at the sky and the camera, not the motorboats; the motorboats were too small and far for anything to read; Ranjith wants the motorboats to flip and a man to go down in the water trying to get free of the net (L178). Frames: `evidence/s20-sh04-v1/`.
